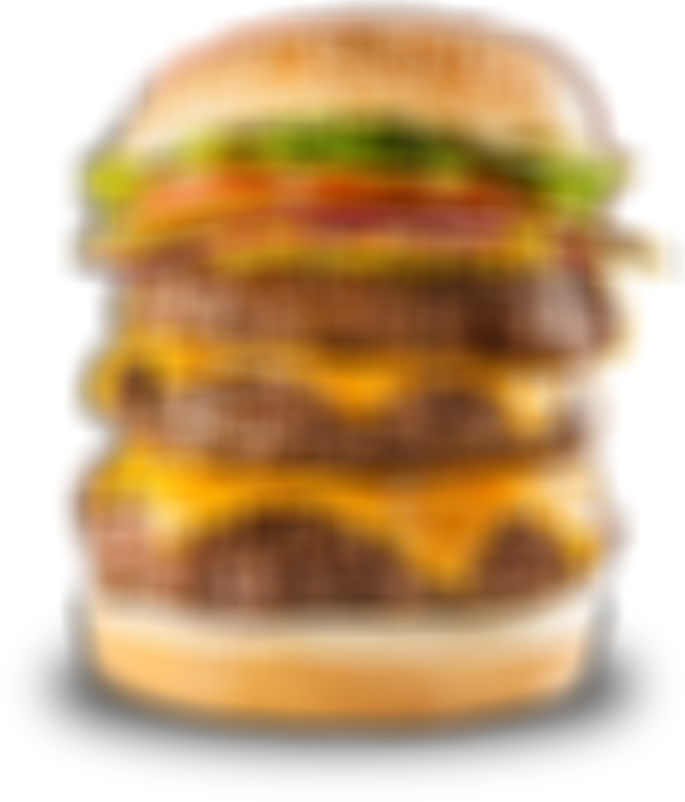
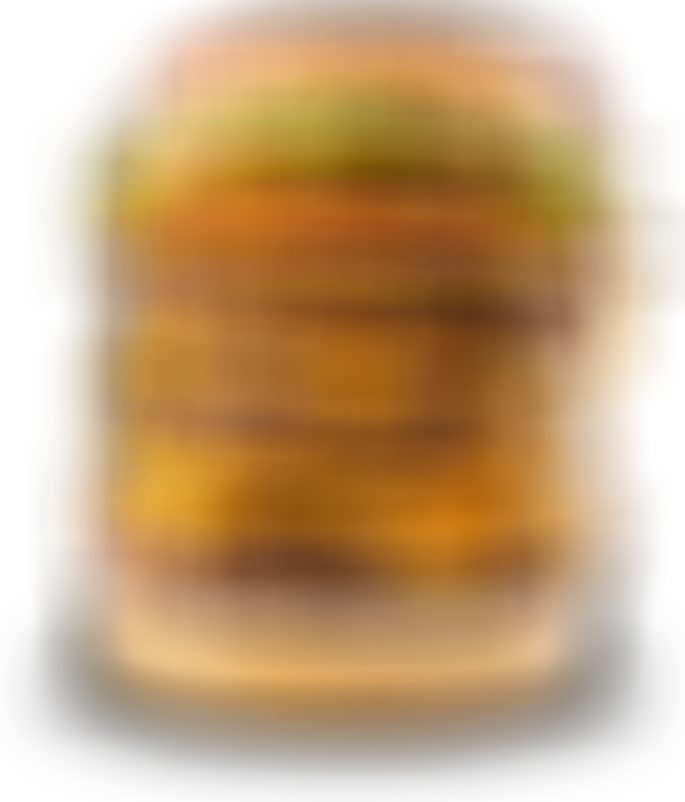
made changes to par_blur
instead of iterating through two ranges, initialized an vector containing all combinations of dx and dy, then iterating over the vector. Cleaner code as well as faster. from testing, changed from around 6x to 7x faster than sequential

diff --git a/src/main.rs b/src/main.rs
@@ -154,6 +154,66 @@ fn par_blur(img: &DynamicImage, par: i32) -> ImageBuffer<Rgba<u8>, Vec<u8>> {
     output_img_buffer
 }
 
+fn par_blur2(img: &DynamicImage, par: i32) -> ImageBuffer<Rgba<u8>, Vec<u8>> {
+    let (width, height) = img.dimensions();
+    
+    let bound: i32;
+    let squared: u32;
+    if par % 2 == 0 {
+        bound = par/2;
+        squared = ((par+1) * (par+1)) as u32;
+    }
+    else {
+        bound = (par-1)/2;
+        squared = (par * par) as u32;
+    }
+    let (lower_bound, upper_bound) = (bound * -1, bound);
+
+    // Initialize the array with the values of dx and dy
+    let offsets: Vec<(i32, i32)> = (lower_bound..=upper_bound)
+        .flat_map(|dx| (lower_bound..=upper_bound).map(move |dy| (dx, dy)))
+        .collect();
+
+    let output_img: Vec<_> = (0..height).into_par_iter().map(|y| {
+        let mut row = vec![Rgba([0, 0, 0, 0]); width as usize];
+        for x in 0..width {
+            let mut r = 0u32;
+            let mut g = 0u32;
+            let mut b = 0u32;
+            let mut a = 0u32;
+
+            for &(dx, dy) in &offsets {
+                let nx = x as i32 + dx;
+                let ny = y as i32 + dy;
+                if nx >= 0 && nx < width as i32 && ny >= 0 && ny < height as i32 {
+                    let pixel = img.get_pixel(nx as u32, ny as u32);
+                    r += pixel[0] as u32;
+                    g += pixel[1] as u32;
+                    b += pixel[2] as u32;
+                    a += pixel[3] as u32;
+                }
+            }
+
+            row[x as usize] = Rgba([
+                (r / squared) as u8,
+                (g / squared) as u8,
+                (b / squared) as u8,
+                (a / squared) as u8,
+            ]);
+        }
+        row
+    }).collect();
+
+    let mut output_img_buffer = ImageBuffer::new(width, height);
+    for (y, row) in output_img.iter().enumerate() {
+        for (x, &pixel) in row.iter().enumerate() {
+            output_img_buffer.put_pixel(x as u32, y as u32, pixel);
+        }
+    }
+
+    output_img_buffer
+}
+
 
 
 
@@ -163,11 +223,11 @@ fn main() -> Result<(), Box<dyn std::error::Error>>  {
     // let img_ = pixelate(&img, (20, 20));
     // let _ = img_.save("images/pixel/pixelated.png");
 
-
+    let blur_param = 100;
     use std::time::Instant;
     let now = Instant::now();
     {
-        let img_ = blur(&img, 40);
+        let img_ = blur(&img, blur_param);
         let _ = img_.save("images/blur/blurred.png");    
     }
     let elapsed = now.elapsed();
@@ -175,20 +235,33 @@ fn main() -> Result<(), Box<dyn std::error::Error>>  {
 
     let now2 = Instant::now();
     {
-        let img_ = par_blur(&img, 40);
+        let img_ = par_blur(&img, blur_param);
         // let _ = img_.save("images/blur/par_blurred.png");    
         match img_.save("images/blur/par_blurred.png") {
             Ok(_) => println!("Image saved successfully."),
             Err(e) => println!("Failed to save image: {}", e),
         }
-        
     }
     let elapsed2 = now2.elapsed();
+
+
+    let now3 = Instant::now();
+    {
+        let img_ = par_blur2(&img, blur_param);
+        match img_.save("images/blur/par_blurred2.png") {
+            Ok(_) => println!("Image saved successfully."),
+            Err(e) => println!("Failed to save image: {}", e),
+        }
+    }
+    let elapsed3 = now3.elapsed();
     println!("seq: {:.2?}", elapsed);
     println!("par: {:.2?}", elapsed2);
+    println!("par2: {:.2?}", elapsed3);
     
     let speedup = elapsed.as_secs_f64() / elapsed2.as_secs_f64();
-    println!("The parallel version is {:.2} times faster than the sequential version.", speedup);
+    let speedup2 = elapsed.as_secs_f64() / elapsed3.as_secs_f64();
+    println!("par is {:.2} times faster than the sequential version.", speedup);
+    println!("par2 is {:.2} times faster than the sequential version.", speedup2);
 
     Ok(())
 }
